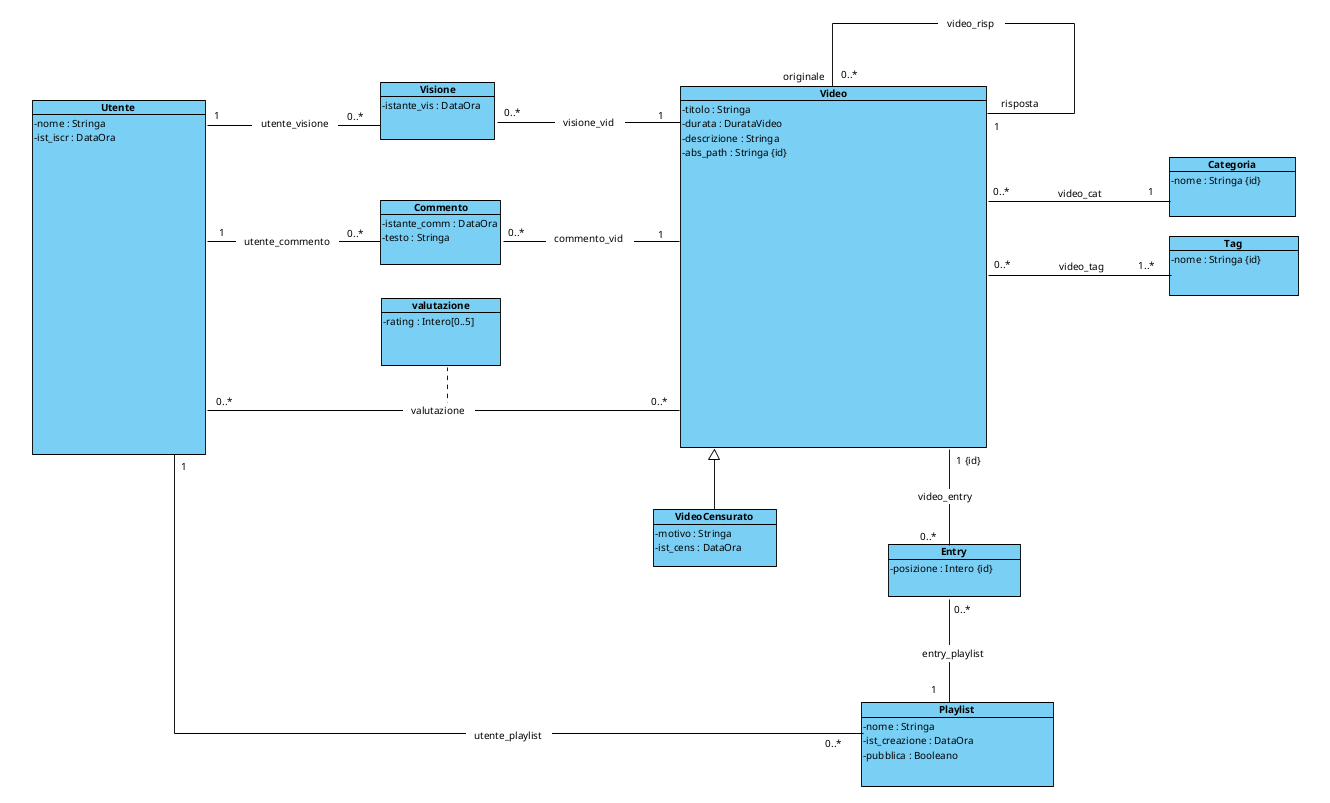
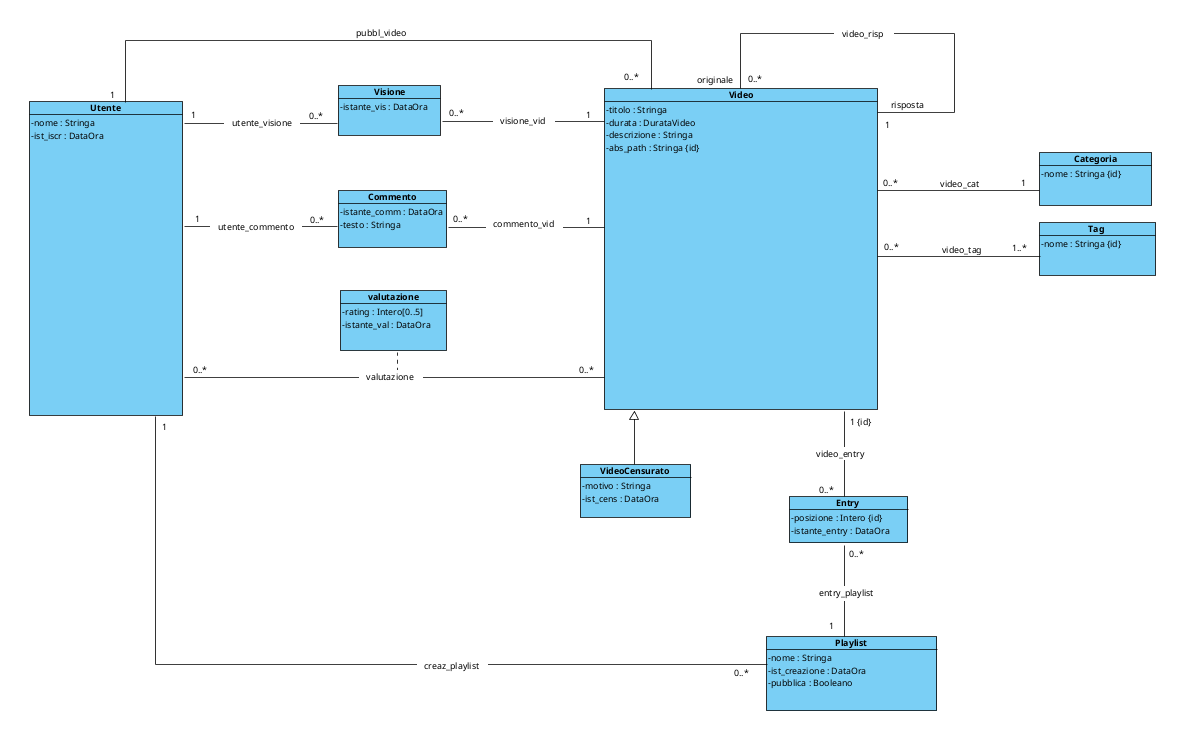
vault backup: 2025-05-18 16:08:20

diff --git a/basi di dati 2/progetti/Tutubi 2.md b/basi di dati 2/progetti/Tutubi 2.md
@@ -1,6 +1,6 @@
 ---
 created: 2025-05-18T11:51
-updated: 2025-05-18T15:38
+updated: 2025-05-18T16:05
 ---
 ## raffinamento dei requisiti
 1) Utenti
@@ -42,7 +42,7 @@ updated: 2025-05-18T15:38
 ![[TuTubi2.png]]
 
 ### specifica dei tipi di dato
-- DurataVideo: (minuti: Intero >= 0, secondi: Intero [0..59])
+- DurataVideo: (ore: Intero >=0, minuti: Intero [0..59], secondi: Intero [0..59])
 
 ### specifica della classe Video
 Ogni istanza di questa classe rappresenta un video pubblicato sulla piattaforma
@@ -138,6 +138,7 @@ $$\begin{align*}&
 \end{align*}
 $$
 
+(per transitività tra `V.Commento.commento_dopo_visione` e `V.Visione.visione_dopo_iscrizione`, non devo specificare un eventuale `V.Commento.commento_dopo_iscrizione`)
 ### specifica della classe Utente
 Ogni istanza di questa classe rappresenta un utente della piattaforma.
 
@@ -152,8 +153,50 @@ $$
 \end{align*}
 $$
 
+(per transitività tra `V.Utente.valutazione_dopo_visione` e `V.Visione.visione_dopo_iscrizione`, non devo specificare un eventuale `V.Utente.valutazione_dopo_iscrizione`)
+
+---
+
 `V.Utente.no_valutazione_autoreferenziale`
 
 $$
 \forall ut,\,vid \ (\text{pubbl\_video}(ut,\,vid)\implies \neg(\text{valutazione}(ut,\,vid)))
+$$
+
+### specifica della classe Entry
+Ogni istanza di questa classe rappresenta una entry di una playlist.
+
+`V.Entry.no_entries_censurate`
+
+$$
+\begin{align*}&
+\forall ent,\,vid,\,ient,\,icen(\text{video\_entry}(ent,\,vid)\land\text{istante\_entry}(ent,\,ient) \\&
+\land\text{VideoCensurato}(vid)\land \text{ist\_cens}(vid,icen) \implies \\&
+ient < icen\\&
+) 
+\end{align*}
+$$
+
+`V.Entry.entry_dopo_creazione`
+
+$$\begin{align*}&
+\forall ent,\,pl,\,ient,\,ipl \\&
+(\text{entry\_playlist}(ent,\,pl) \land \text{istante\_entry}(ient,\,ent) \land \text{ist\_creazione}(pl,\,ipl) \implies \\&
+ient \geq ipl\\&
+)
+\end{align*}
+$$
+
+(per transitività tra `V.Entry.entry_dopo_creazione` e `V.Playlist.playlist_dopo_iscrizione` non ho bisogno di scrivere un ipotetico `V.Entry.entry_dopo_iscrizione`)
+### specifica della classe Playlist
+Ogni istanza di questa classe rappresenta una playlist.
+
+`V.Playlist.playlist_dopo_iscrizione`
+
+$$
+\begin{align*}&
+\forall play,\,ut,\,ipl,\,iscr \\&
+(\text{creaz\_playlist}(ut,\,play)\land \text{ist\_creazione}(play,\,ipl)\land \text{ist\_iscr}(ut,\,iscr)\\&
+\implies ipl > iscr)
+\end{align*}
 $$
